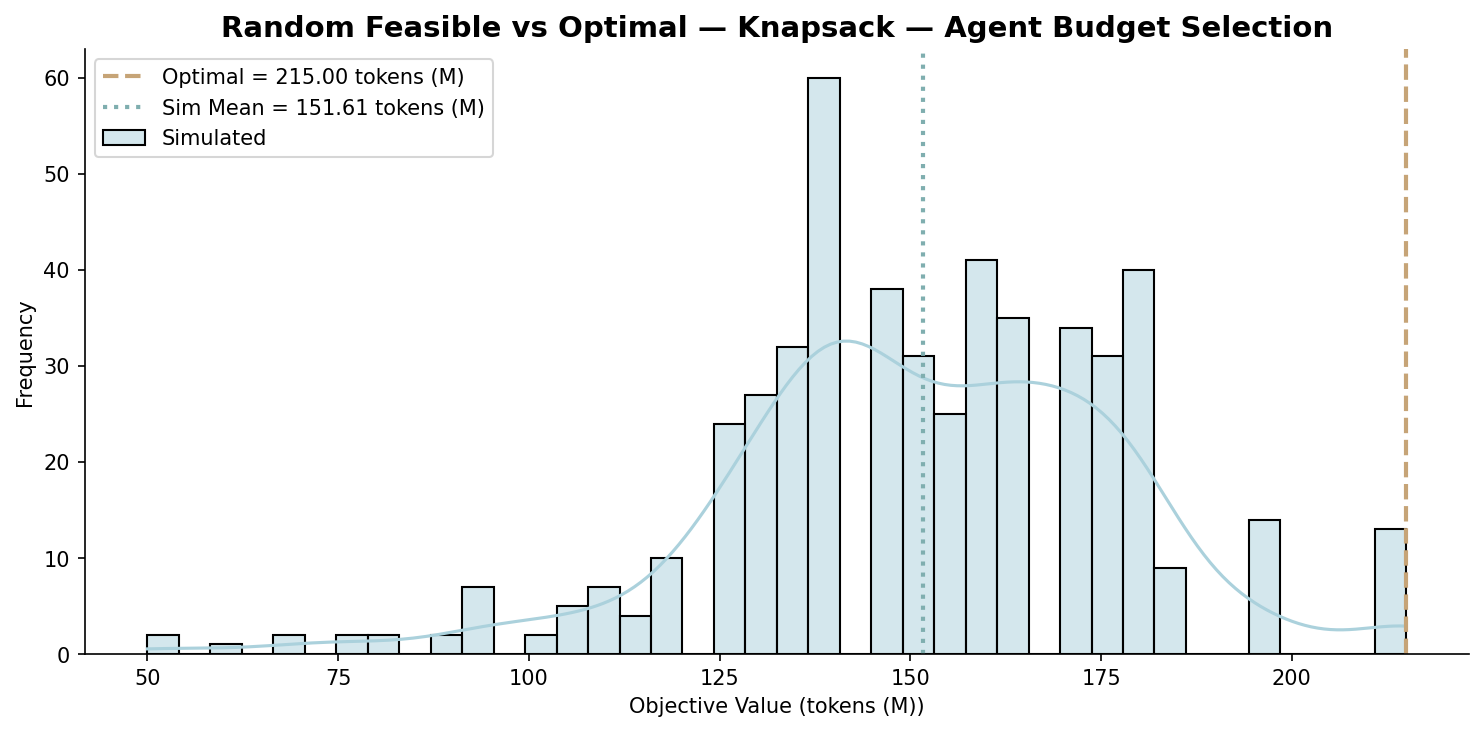
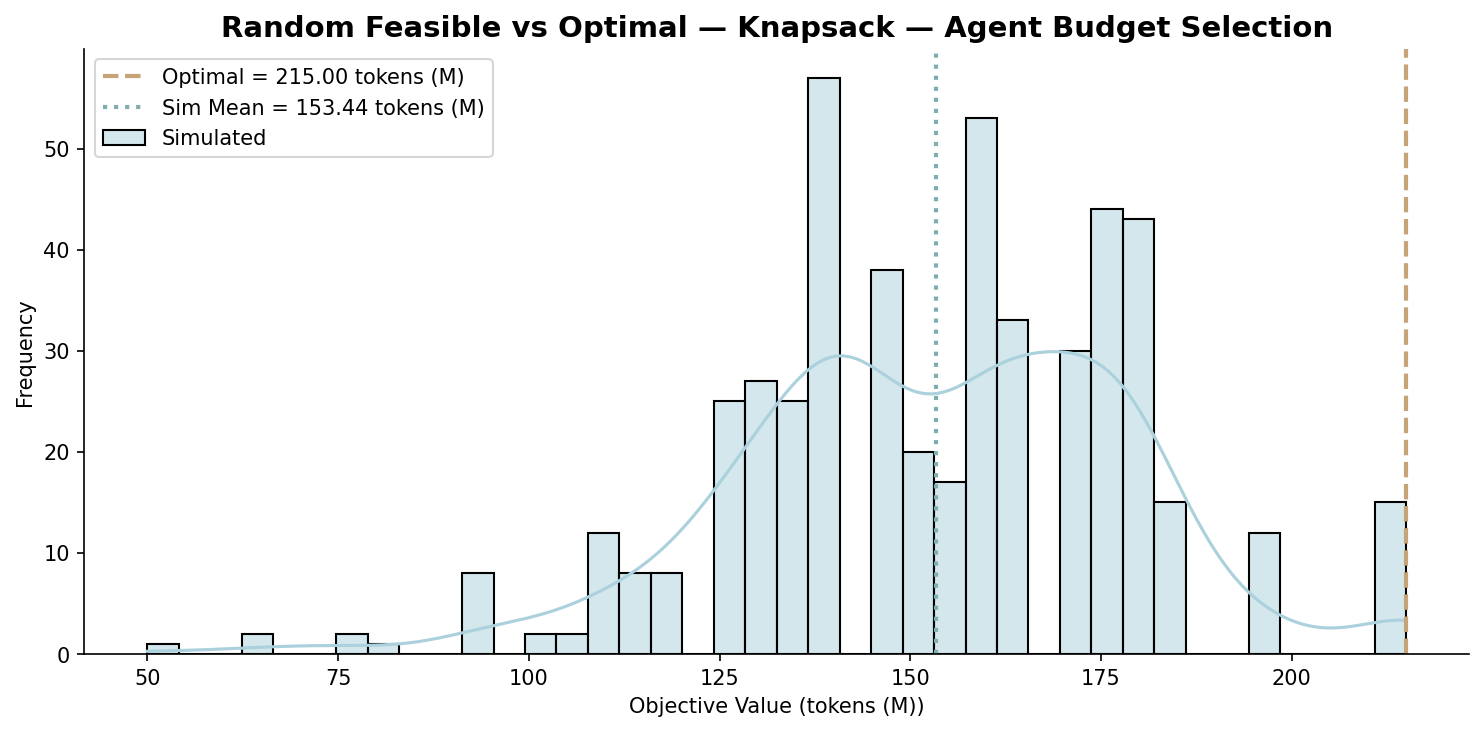
Update naming convention for Network problem

diff --git a/simulation.py b/simulation.py
@@ -16,7 +16,7 @@ perturbation, evaluates the *original* objective on every feasible solution
 found, then overlays the true optimum on the resulting histogram.
 
 
-Each problem file (assignment, knapsack, network_routing, set_covering)
+Each problem file (assignment, knapsack, network, set_covering)
 exposes a build_model() function that returns:
     (model, variables, obj_coeffs, obj_sense, problem_name, cost_unit)
 
@@ -193,13 +193,13 @@ def simulate_and_plot(
 if __name__ == "__main__":
     from assignment      import build_model as assignment_model
     from knapsack        import build_model as knapsack_model
-    from network_routing import build_model as network_routing_model
+    from network        import build_model as network_model
     from set_covering    import build_model as set_covering_model
 
     problems = [
         assignment_model,
         knapsack_model,
-        network_routing_model,
+        network_model,
         set_covering_model,
     ]
 

diff --git a/README.md b/README.md
@@ -62,7 +62,7 @@ Selects the minimum-cost subset of **12 AI agents** (at $20k each) that collecti
 |---|---|
 | Assignment | `plots/assignment_—_agent-to-project_allocation.png` |
 | Knapsack | `plots/knapsack_—_agent_budget_selection.png` |
-| Network Routing | `plots/network_routing_—_agent_routing.png` |
+| Network Routing | `plots/network_—_agent_routing.png` |
 | Set Covering | `plots/set_covering_—_skill_coverage.png` |
 
 ---
@@ -98,7 +98,7 @@ python simulation.py
 ```bash
 python assignment.py
 python knapsack.py
-python network_routing.py
+python network.py
 python set_covering.py
 ```
 